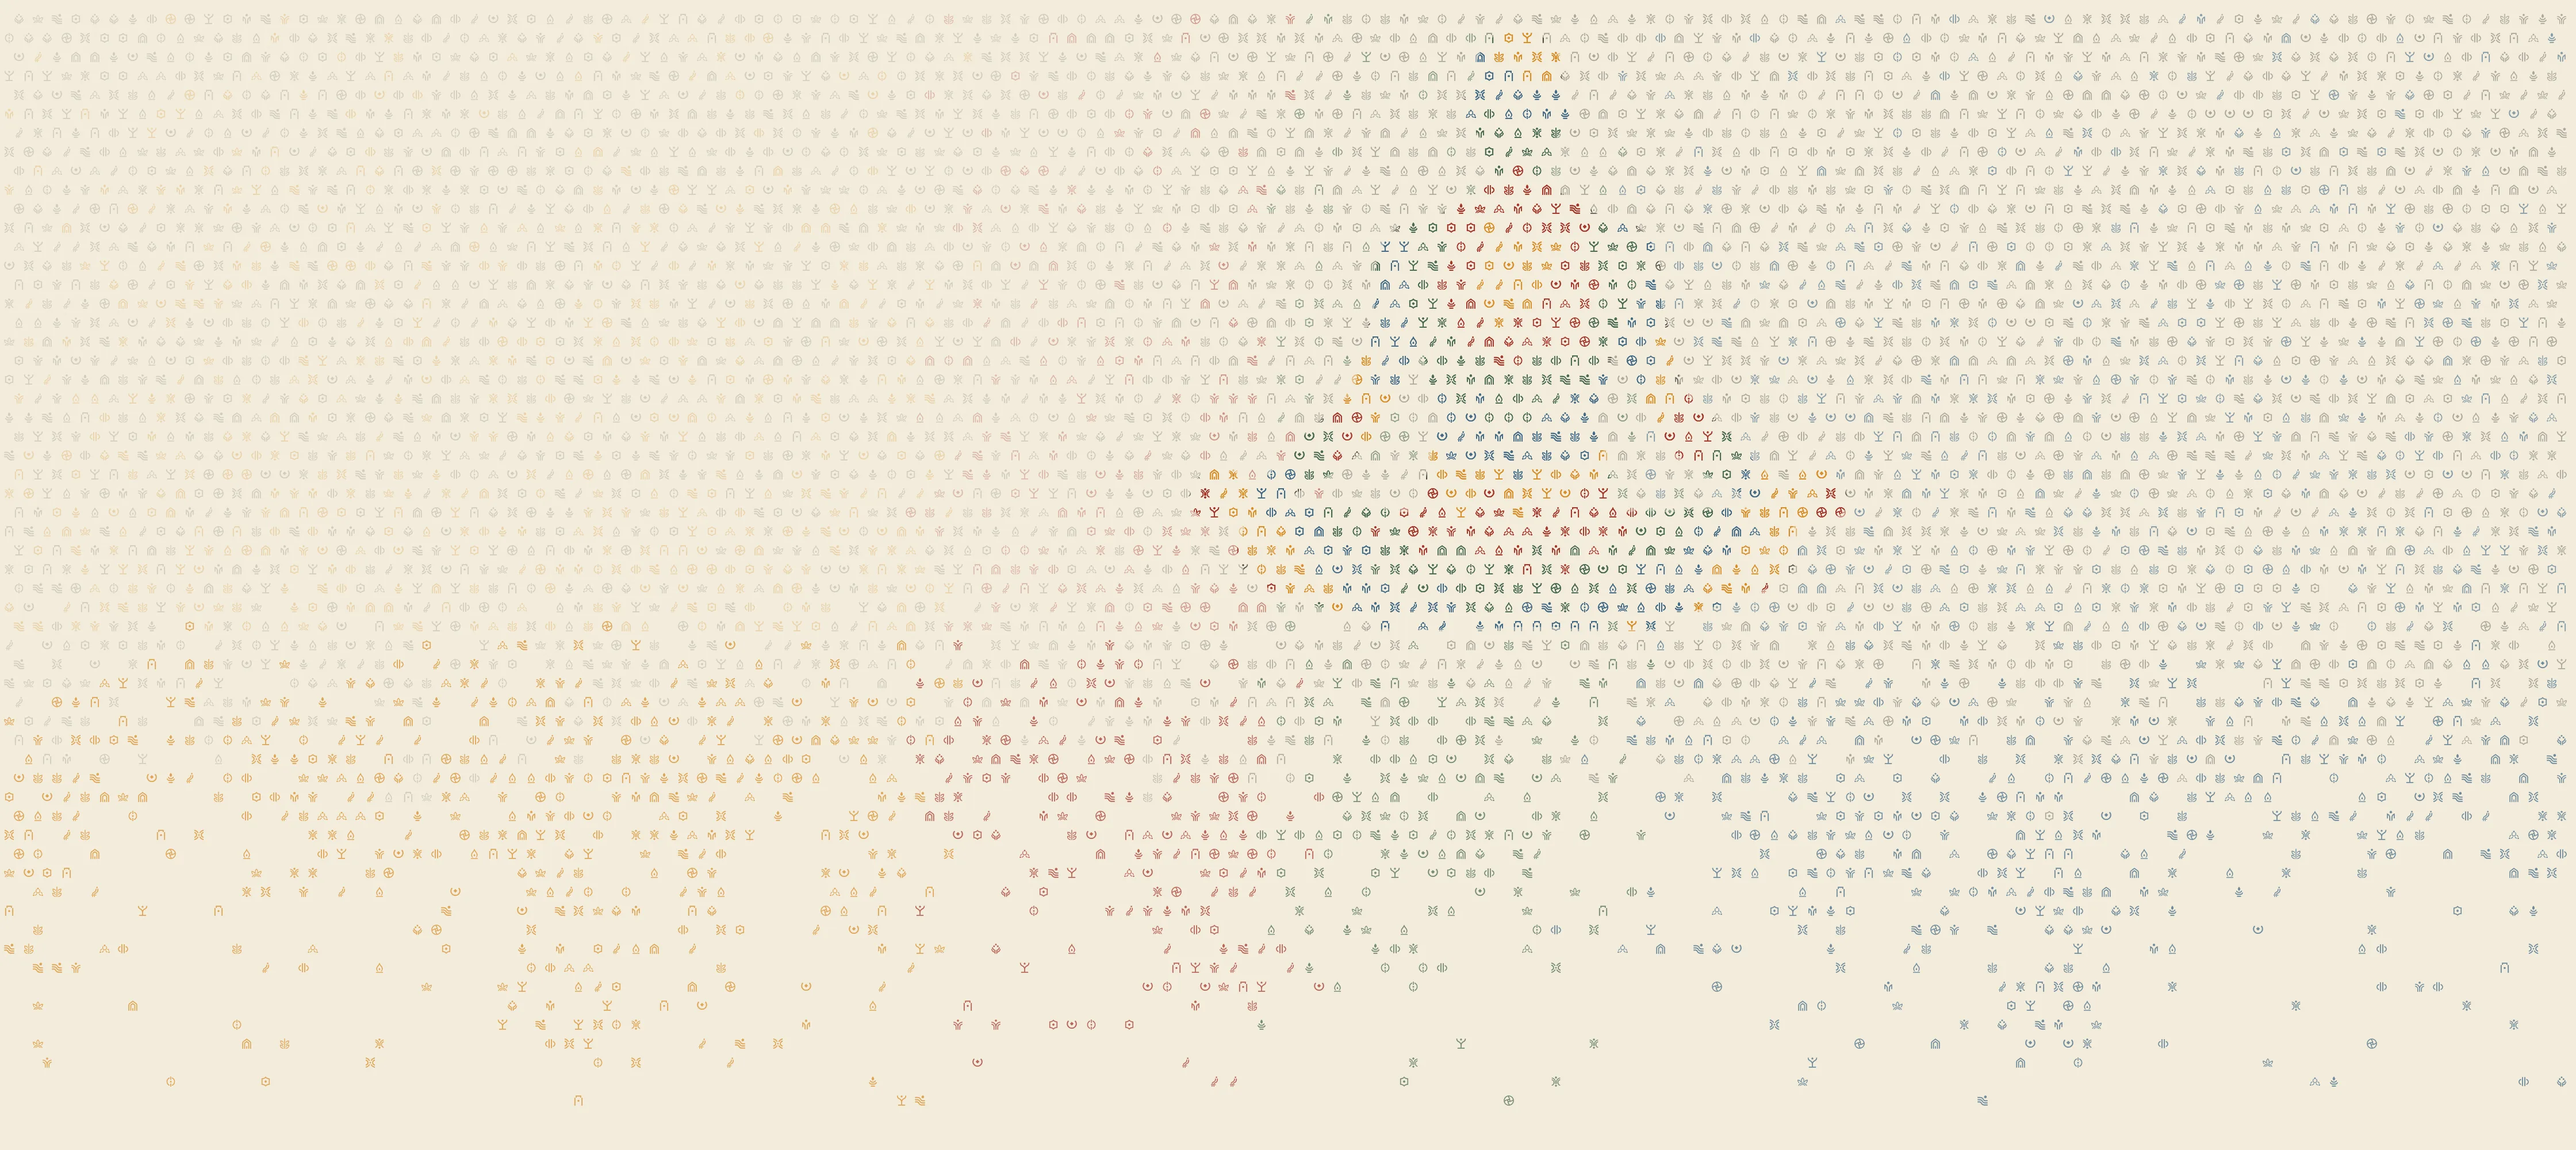
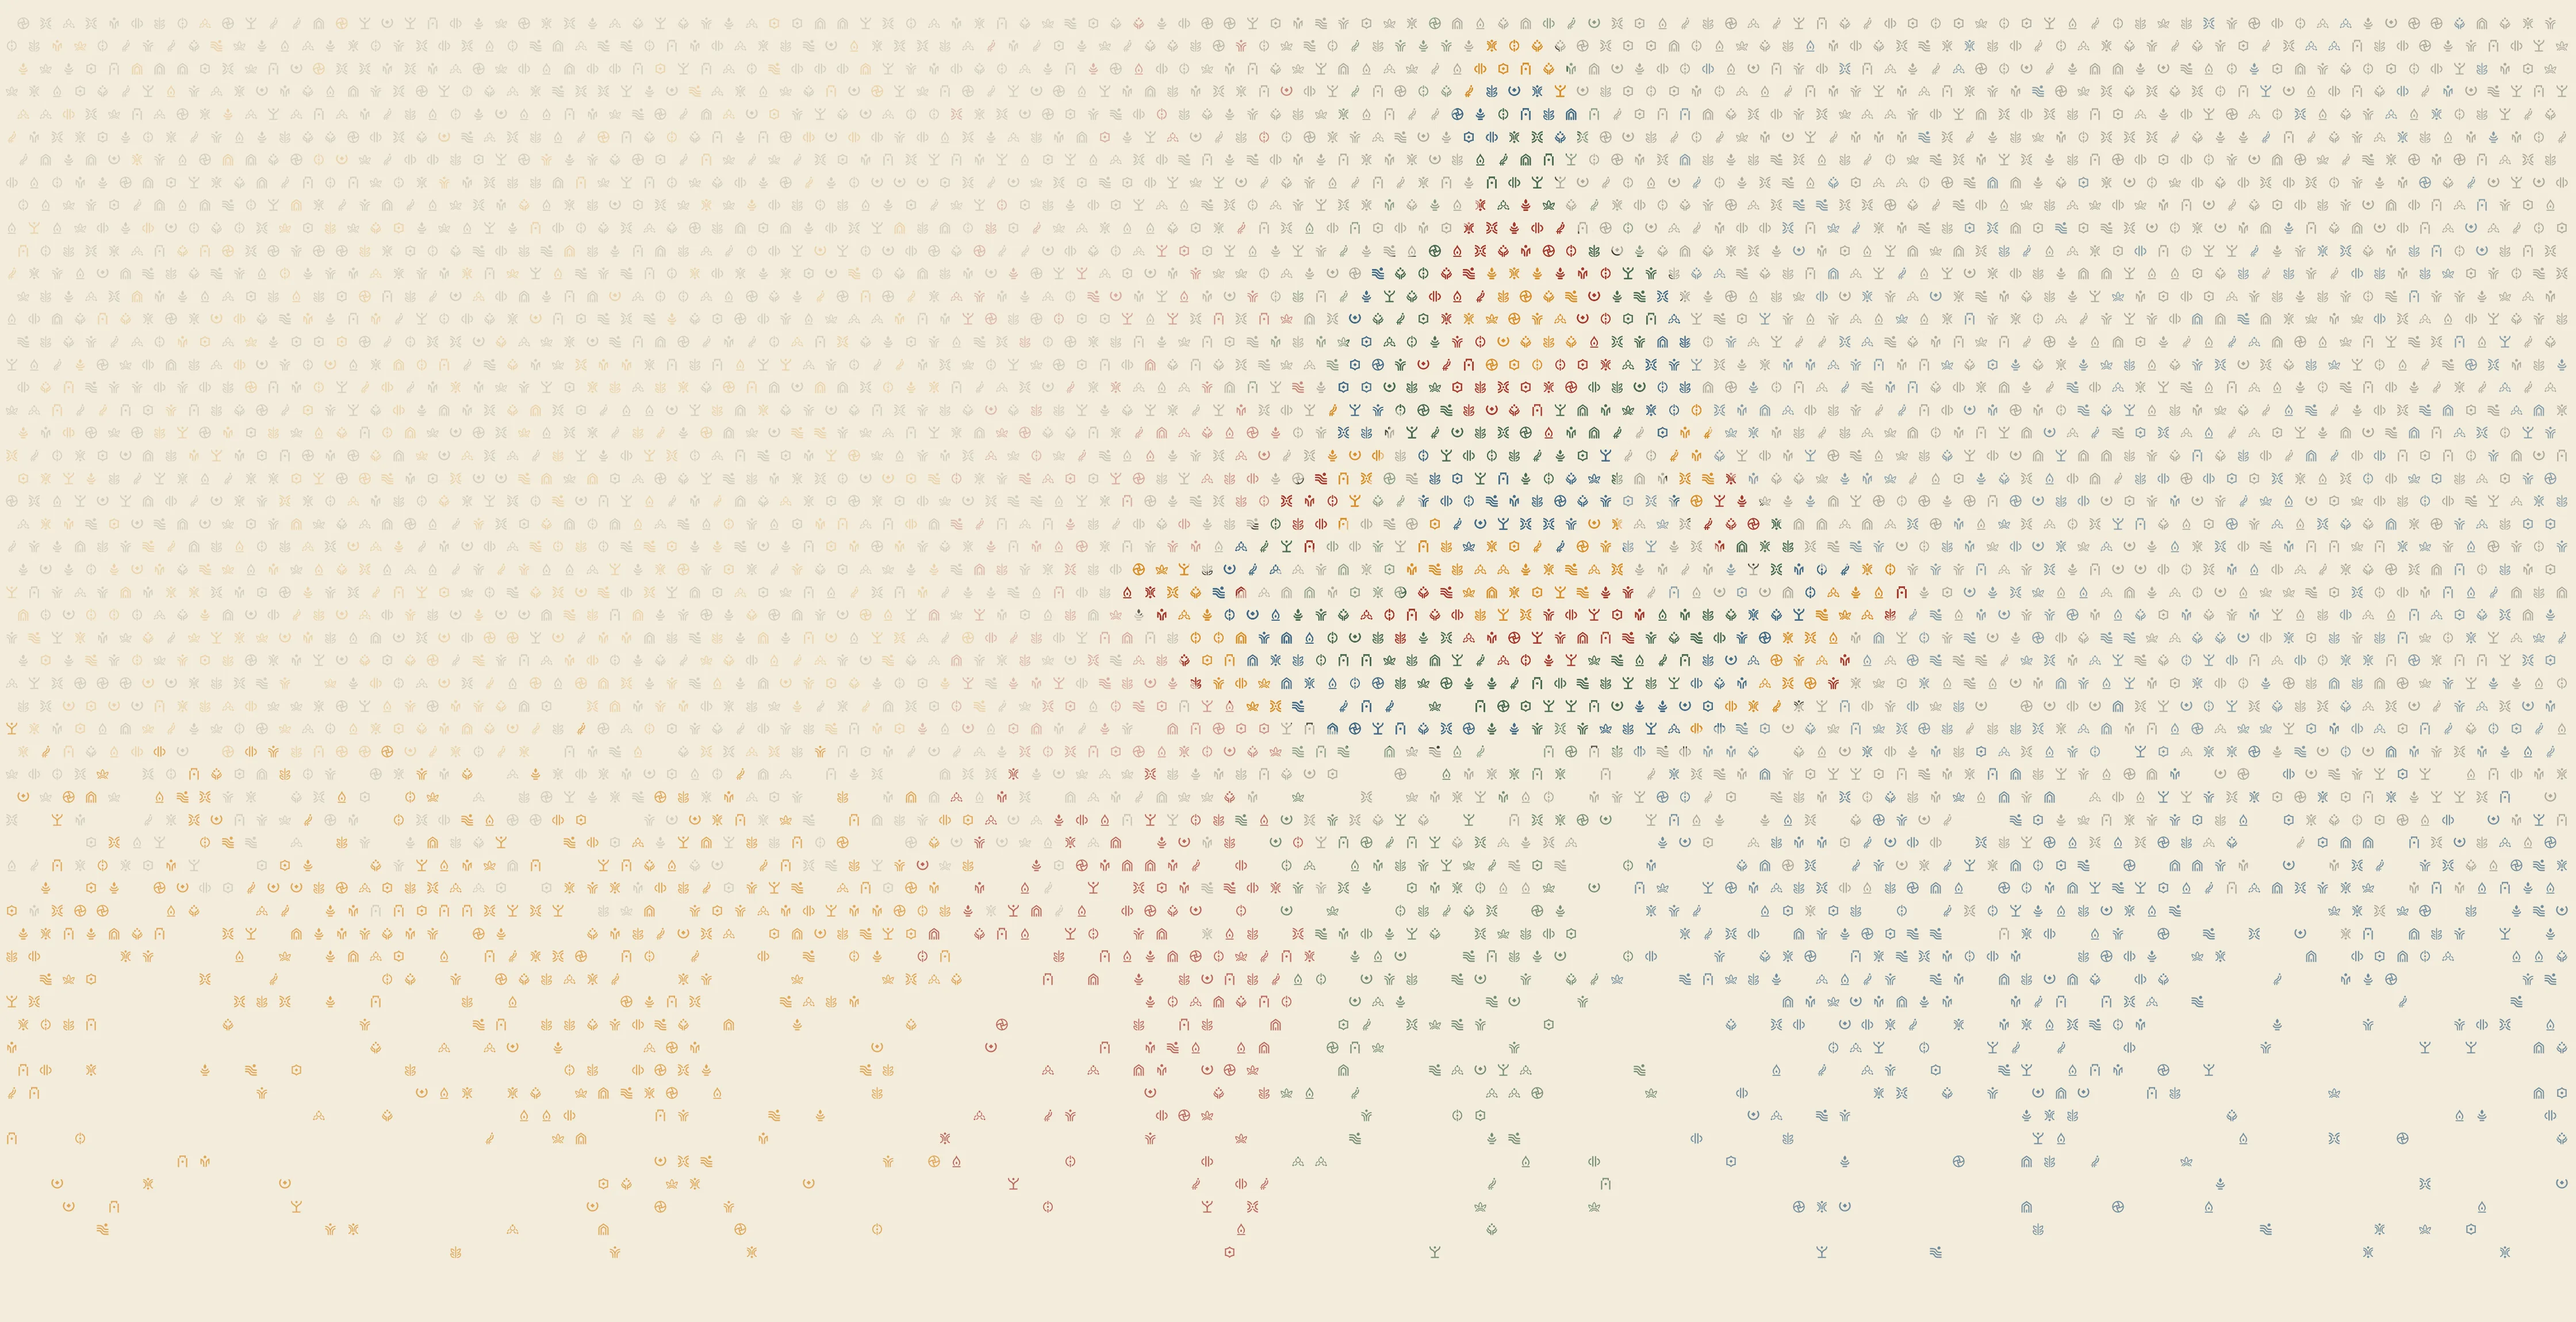
Hero glyph field: regenerate with figure and glyphs 20% larger; show at 1x
Claude-Session: https://claude.ai/code/session_01Faxypstm6H8yAswypDCHBa

diff --git a/app/lanes-home.css b/app/lanes-home.css
@@ -58,11 +58,10 @@
 /* Glyph field (Dat, Nov 15): public/brand/home/hero-glyph-field.webp is drawn in stage units, x −480 to 1760 and
    y 0 to 1000 at 2 px per unit, so it overhangs both sides for wide screens. The figure is centred at x 840; the
    field disperses from y 486 and ends at 955, just above the phase boxes. */
-/* Nov 15 (Dat): the whole field is 1.2× larger, scaled about the figure's head (image units 840, 215), so glyphs and figure
-   grow 20%. Desktop puts the head under the gap between Programs and Resources: that gap's centre sits
-   min(100vw,1280px) − 180 px − 328.6 units from the stage, so left = that − 1.2 × (840 + 480) units. The field's top
-   (−43 units after scaling) is clipped at the stage top. */
-.field-guide .ln-art .ln-field{left:calc(min(100vw,1280px) - 180px - 1912.6 * var(--u));top:calc(-43 * var(--u));width:calc(2688 * var(--u));height:calc(1200 * var(--u));clip-path:inset(calc(43 * var(--u)) 0 0 0)}
+/* Glyph field at 1x (Dat, Nov 15): figure and glyphs were enlarged 20% in scripts/hero-glyph-field.py; the image covers
+   stage x −480 to 1760 and y 0 to 1150. Desktop puts the head (image x 840) under the gap between Programs and
+   Resources: that gap's centre sits min(100vw,1280px) − 180 px − 328.6 units from the stage, so left = that − 1320 units. */
+.field-guide .ln-art .ln-field{left:calc(min(100vw,1280px) - 180px - 1648.6 * var(--u));top:0;width:calc(2240 * var(--u));height:calc(1150 * var(--u))}
 
 /* Desktop: the stage also scales with screen height. It is anchored so the copy stays on the 40 px content margin. */
 @media(min-width:901px){
@@ -172,8 +171,8 @@
   .field-guide .ln-copy h1{font-size:clamp(48px,14vw,84px)}
   .field-guide .ln-lede{font-size:18px}
   /* Phones: the field becomes a band under the copy, centred on the figure (700 units across), fading out below. */
-  .ln-art{display:block;position:relative;order:2;margin:8px -20px 0;height:calc(100vw * 720 / 700);overflow:hidden;-webkit-mask-image:linear-gradient(#000 72%,transparent);mask-image:linear-gradient(#000 72%,transparent)}
-  .field-guide .ln-art .ln-field{width:calc(100vw * 2688 / 700);height:calc(100vw * 1200 / 700);left:calc(50% - 100vw * 1584 / 700);top:calc(-100vw * 43 / 700);clip-path:none}
+  .ln-art{display:block;position:relative;order:2;margin:8px -20px 0;height:calc(100vw * 820 / 700);overflow:hidden;-webkit-mask-image:linear-gradient(#000 72%,transparent);mask-image:linear-gradient(#000 72%,transparent)}
+  .field-guide .ln-art .ln-field{width:calc(100vw * 2240 / 700);height:calc(100vw * 1150 / 700);left:calc(50% - 100vw * 1320 / 700);top:0}
   .field-guide .ln-phases-title{position:static;order:3;font-size:clamp(34px,9vw,48px);margin:8px 0 40px;white-space:normal}
   .ln-phases{order:4;display:flex;flex-direction:column;gap:44px;margin:0;width:auto}
   .ln-phases li{border-width:2px;padding:40px 22px 24px}

diff --git a/components/field-guide/Home.tsx b/components/field-guide/Home.tsx
@@ -30,7 +30,7 @@ export function HomeContent() {
 <section className="ln-hero" aria-labelledby="ln-hero-title">
   <div className="ln-stage">
     <div className="ln-art" aria-hidden="true">
-      <img className="ln-field" src="/brand/home/hero-glyph-field.webp" alt="" width="4480" height="2000" fetchPriority="high" />
+      <img className="ln-field" src="/brand/home/hero-glyph-field.webp" alt="" width="4480" height="2300" fetchPriority="high" />
     </div>
     <div className="ln-copy">
       <h1 id="ln-hero-title">Live in<br />practice</h1>

diff --git a/scripts/hero-glyph-field.py b/scripts/hero-glyph-field.py
@@ -4,7 +4,7 @@
 # Needs: pip install numpy scipy pillow cairosvg   (about 5 s; the output is deterministic for the same inputs)
 #
 # Everything is in hero-stage units (1 unit = 1 px at 1280 wide) and rendered at S px per unit. The image covers
-# stage x XL..XL+WU and y 0..HU; app/lanes-home.css places and scales it (it is currently shown 1.2x, about the head).
+# stage x XL..XL+WU and y 0..HU; app/lanes-home.css places it at 1x, with the head under the Programs / Resources gap.
 # Inputs in scripts/hero-glyph-field/:
 #   glyphs/       the 20 CC glyphs (bone SVGs from the brand asset pack); only their shape is used
 #   silhouette.png  the seated figure's outline (white on black), traced from a reference image Dat supplied (Nov 12):
@@ -20,11 +20,11 @@ QUALITY=82
 
 # ── Settings ────────────────────────────────────────────────────────────────────────────────────────────────
 S=2                       # px per stage unit
-XL,WU,HU=-480,2240,1000   # image extent in stage units (overhangs both sides for wide screens)
-CX,TOP,HT=840,26,520      # figure: centre x, top of head, height
-SP,GS=16.5,9.75           # glyph grid pitch and glyph size
-DTOP_OFFSET=60            # dispersal starts this far above the seat line (TOP+HT)
-DBOT=955                  # dispersal ends here (just above the phase boxes)
+XL,WU,HU=-480,2240,1150   # image extent in stage units (overhangs both sides for wide screens)
+CX,TOP,HT=840,26,624      # figure: centre x, top of head, height (Nov 15: +20%, was 520)
+SP,GS=19.8,11.7           # glyph grid pitch and glyph size (Nov 15: +20%, was 16.5, 9.75)
+DTOP_OFFSET=72            # dispersal starts this far above the seat line (TOP+HT)
+DBOT=1100                 # dispersal ends here (just above the phase boxes, which start at 1110)
 FLOOR=0.22                # minimum density through the dispersal, so no area empties
 BX0,BXW=40,300            # phase box columns: falling glyphs take the colour of the column below them
 FIELD_COLOUR=0.55         # share of field glyphs that take a phase colour (rising towards the bottom)
@@ -32,8 +32,8 @@ FIG_STRENGTH=0.35         # how far the figure stands out from the field (0 = in
 FIG_COLOUR_BOOST=1.5      # extra ink for the figure's coloured glyphs
 GAIN=2.3                  # overall darkness of the field
 RAIN_ALPHA=0.75           # opacity of the falling coloured glyphs
-RING=34                   # width of each colour ring around the heart
-CROWN=80                  # no clay within this many units of the top of the head
+RING=41                   # width of each colour ring around the heart
+CROWN=96                  # no clay within this many units of the top of the head
 SEED=7
 # ────────────────────────────────────────────────────────────────────────────────────────────────────────────
 

diff --git a/docs/design/README.md b/docs/design/README.md
@@ -28,19 +28,20 @@ The older references (two bands, U-fold) are kept for history:
 
 ## How the hero is built
 
-- `components/field-guide/Home.tsx` and `app/lanes-home.css`. The hero is a 1280 × 1290-unit stage;
+- `components/field-guide/Home.tsx` and `app/lanes-home.css`. The hero is a 1280 × 1440-unit stage;
   `--u` is one unit in px, so the field, copy and phases scale together (down to 900 px wide; below
   that the copy and phases stack and the field becomes a band centred on the figure).
 - Glyph field (Nov 15): `public/brand/home/hero-glyph-field.webp`, one image of the 20 CC glyphs at
-  2 px per stage unit, covering stage x −480 to 1760 and y 0 to 1000 so it overhangs wide screens.
-  - The seated figure is centred at x 840: its glyphs follow its shading and take marigold, clay, sage
+  2 px per stage unit, covering stage x −480 to 1760 and y 0 to 1150 so it overhangs wide screens. It is shown
+  at 1×; on desktop the head sits under the gap between Programs and Resources at every width.
+  - The seated figure (624 units tall, glyphs 11.7 on a 19.8 grid since Nov 15; was 520, 9.75, 16.5) is centred at x 840: its glyphs follow its shading and take marigold, clay, sage
     and blue in rings from the heart, with no clay at the crown. The field is lighter behind the copy.
-  - From y 486 the field disperses irregularly, never quite emptying, and ends at 955 above the
-    phase boxes. As the glyphs fall they take the colour of the phase box below them.
+  - From y 578 the field disperses irregularly, never quite emptying, and ends at 1100 above the
+    phase boxes (from 1110; the title sits at 960). As the glyphs fall they take the colour of the phase box below them.
   - The figure outline was traced from a reference image (Dat, Nov 12); confirm its licence before launch.
   - Regenerate it with `python3 scripts/hero-glyph-field.py` (needs numpy, scipy, Pillow, cairosvg). The
     settings are at the top of the script; its inputs (glyphs, figure silhouette and shading) are in
-    `scripts/hero-glyph-field/`. The CSS scales and places the image, so re-render only to change the field itself.
+    `scripts/hero-glyph-field/`. The CSS only places the image, so re-render to change the field itself.
 - Phases: four boxes across the content width, outlined in the phase colour, the glyph set into
   a gap in the top line at the top left. The title sits inside the dispersing field.
 - Earlier art, no longer used on the page: `bands.svg` (regenerate with `scripts/hero-band.py`) and

diff --git a/docs/edit-ledger.md b/docs/edit-ledger.md
@@ -638,3 +638,13 @@ commits. Hashes below were backfilled for commits made before the ledger existed
 - Inputs are in `scripts/hero-glyph-field/`: the 20 glyph SVGs, and the figure's silhouette and 16-bit shading map. Needs numpy, scipy, Pillow and cairosvg.
 - Why: Dat, Nov 15, so the field can be re-rendered rather than only scaled and shifted in CSS.
 - Provisional: the silhouette is traced from a reference image Dat supplied; confirm its licence before launch.
+
+### 2026-11-15 · Glyph field regenerated: figure and glyphs 20% larger (`home-04-lanes` only)
+- Re-rendered `public/brand/home/hero-glyph-field.webp` with `scripts/hero-glyph-field.py` instead of scaling the old image in CSS. This replaces the CSS 1.2× scaling from earlier today.
+  - Figure height 520 → 624 units. Glyph size 9.75 → 11.7, grid pitch 16.5 → 19.8.
+  - Color-ring width, crown and dispersal start scaled to match.
+  - The dispersal now ends at 1100, just above the phase boxes, which stay at 1110. The image is 4480 × 2300 (stage y 0 to 1150).
+  - With the old settings the script reproduced the previous image exactly before the change.
+- `app/lanes-home.css` shows the image at 1× and keeps the head under the gap between Programs and Resources: within 0.5 px at 1024, 1280, 1440 and 1920.
+- Phones show the same field centered on the figure, with a slightly taller band (820 units).
+- Why: Dat, Nov 15 ("there should be script pushed for the hero image. can you adjust that instead?").
